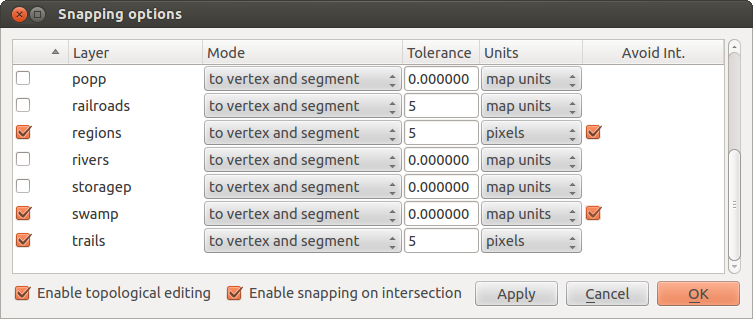
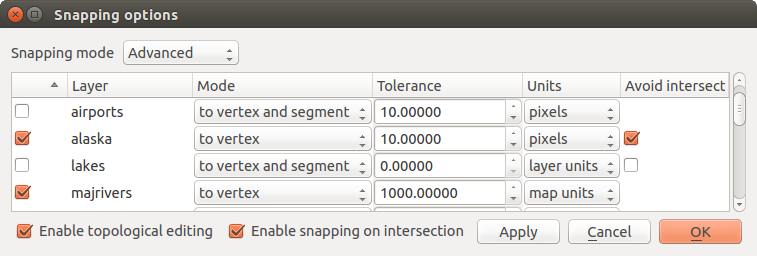
Update Snapping option screenshoot fixes #454

diff --git a/source/docs/user_manual/working_with_vector/editing_geometry_attributes.rst b/source/docs/user_manual/working_with_vector/editing_geometry_attributes.rst
@@ -74,7 +74,7 @@ So be sure to mark the checkbox for those layers that you need to snap to.
 .. figure:: /static/user_manual/working_with_vector/editProjectSnapping.png
    :align: center
 
-   Edit snapping options on a layer basis |nix|
+   Edit snapping options on a layer basis (Advanced mode) |nix|
 
 .. index:: Search_Radius
 
